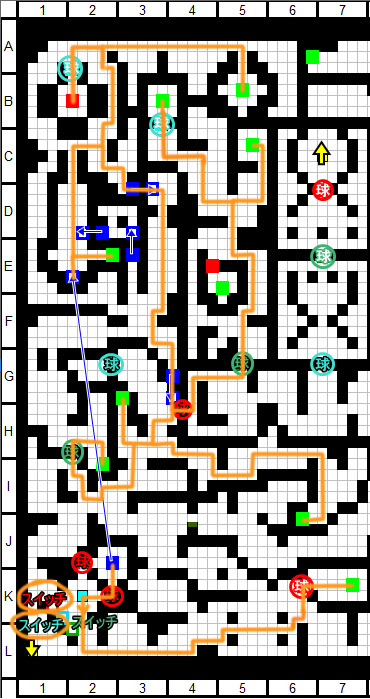
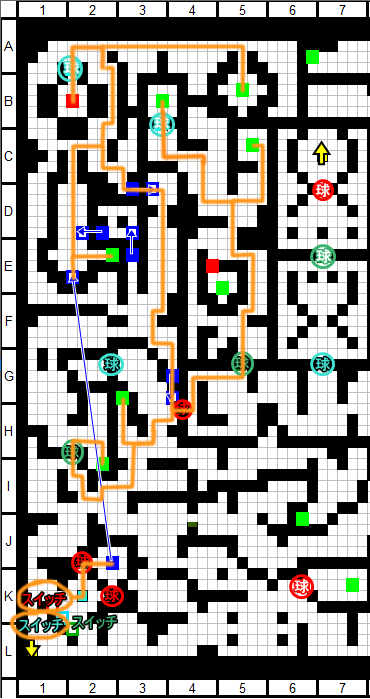
Removed purple orb and the arch from 11F

Changed region(s): [[0.1784, 0.7811, 0.9514, 0.9614], [0.4162, 0.6009, 0.8919, 0.7511]]

diff --git a/item/chests.md b/item/chests.md
@@ -308,17 +308,17 @@ Any treasure located in floor A that can only be obtained after reaching floor B
 | HQ Sake Deer | X |
 | Lapis Lazuli Light x2 | X |
 | Pride | X |
-| Purple Orb | O |
+| Purple Orb | X |
 | Scouter | X |
 | Shining Black Stone x2 | X |
 | Stone of Awakening | O |
 | Strange Meat Pie | O |
-| The Arch | O |
+| The Arch | X |
 | Treasure Chest Key | O |
 | Yggdrasil Dew | O |
-| Floor Total | 10 |
+| Floor Total | 8 |
 | Possible Skips | 0 |
-| Combined Total | 97 |
+| Combined Total | 91 |
 
 #### <a id="floor-12"></a>Floor 12
 
